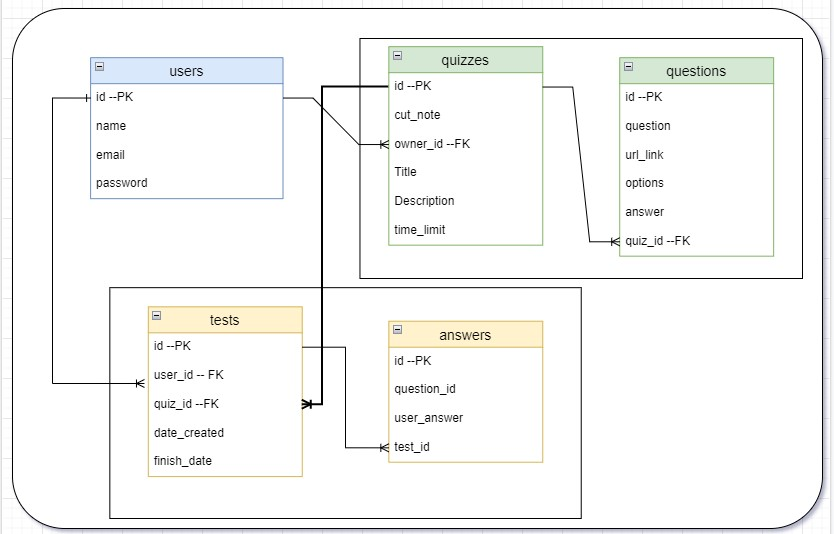
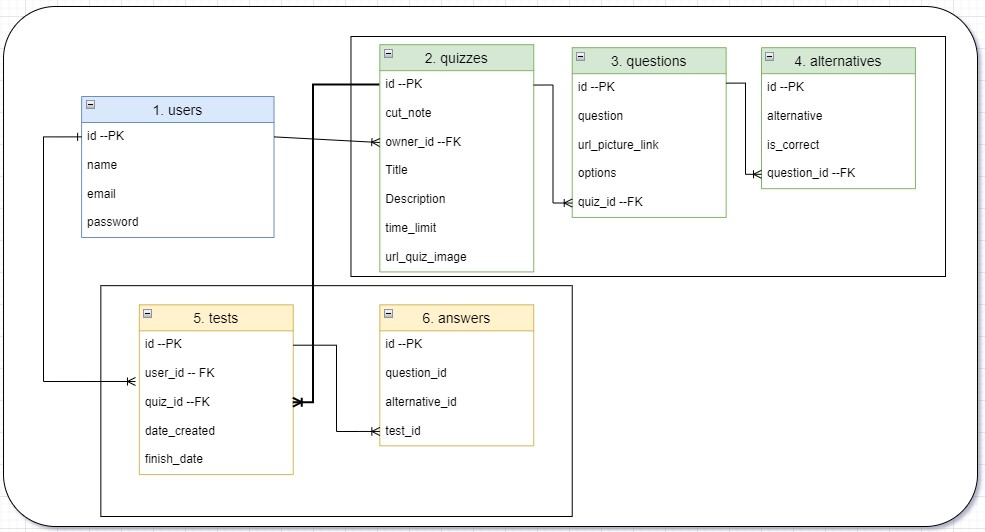
table alternatives created in 01_schema.sql, update docs

Changed region(s): [[0.0, 0.0301, 0.9976, 1.0], [0.0312, 0.0, 0.9664, 0.0301], [0.2494, 0.4211, 0.2806, 0.4511]]

diff --git a/planning/project-notes.md b/planning/project-notes.md
@@ -34,17 +34,23 @@ It will be created 5 entities as below (grouped quiz and questions), the sixth o
 - owner_id -- FK
 - title
 - description
-- time (time to do the quiz - pending) * I had a bad experience in timed tests. I did a proficiency test and their timer didn't expect asynchronous aspect in audio questions. When youtube was not working yet the timer was running out.
+- time_limit (time to do the quiz - pending) * I had a bad experience in timed tests. I did a proficiency test and their timer didn't expect asynchronous aspect in audio questions. When youtube was not working yet the timer was running out.
+- url_quiz_image
 
 3. questions
 - id --PK
 - question (one or more per quiz)
-- url_questions_picture (optional)
+- url_picture_link (optional)
 - options (one or more for each questions)
-- correct answer (1 or more)
 - quiz_id -- FK
 
-4. tests quiz_answers
+4. alternatives
+- id --PK
+- alternative
+- is_correct (boolean)
+- question_id -- FK
+
+5. tests (quiz_answers)
 - id --PK
 - user_id  -- FK
 - quiz_id  -- FK
